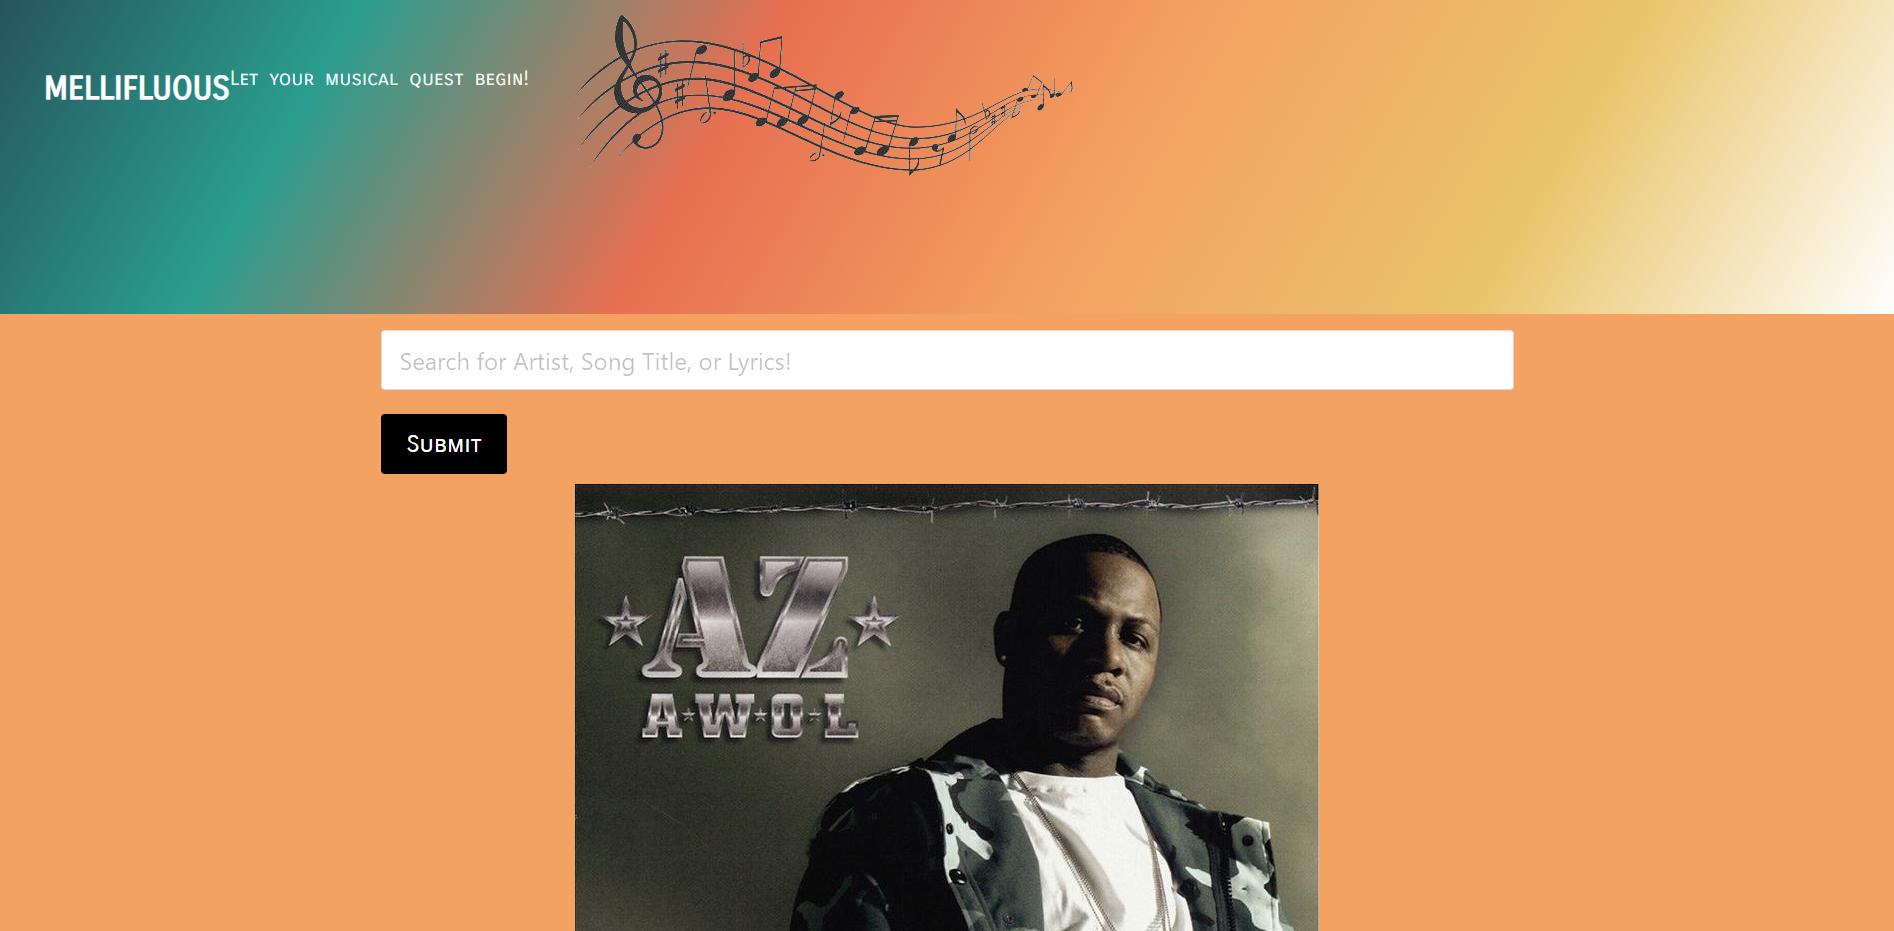
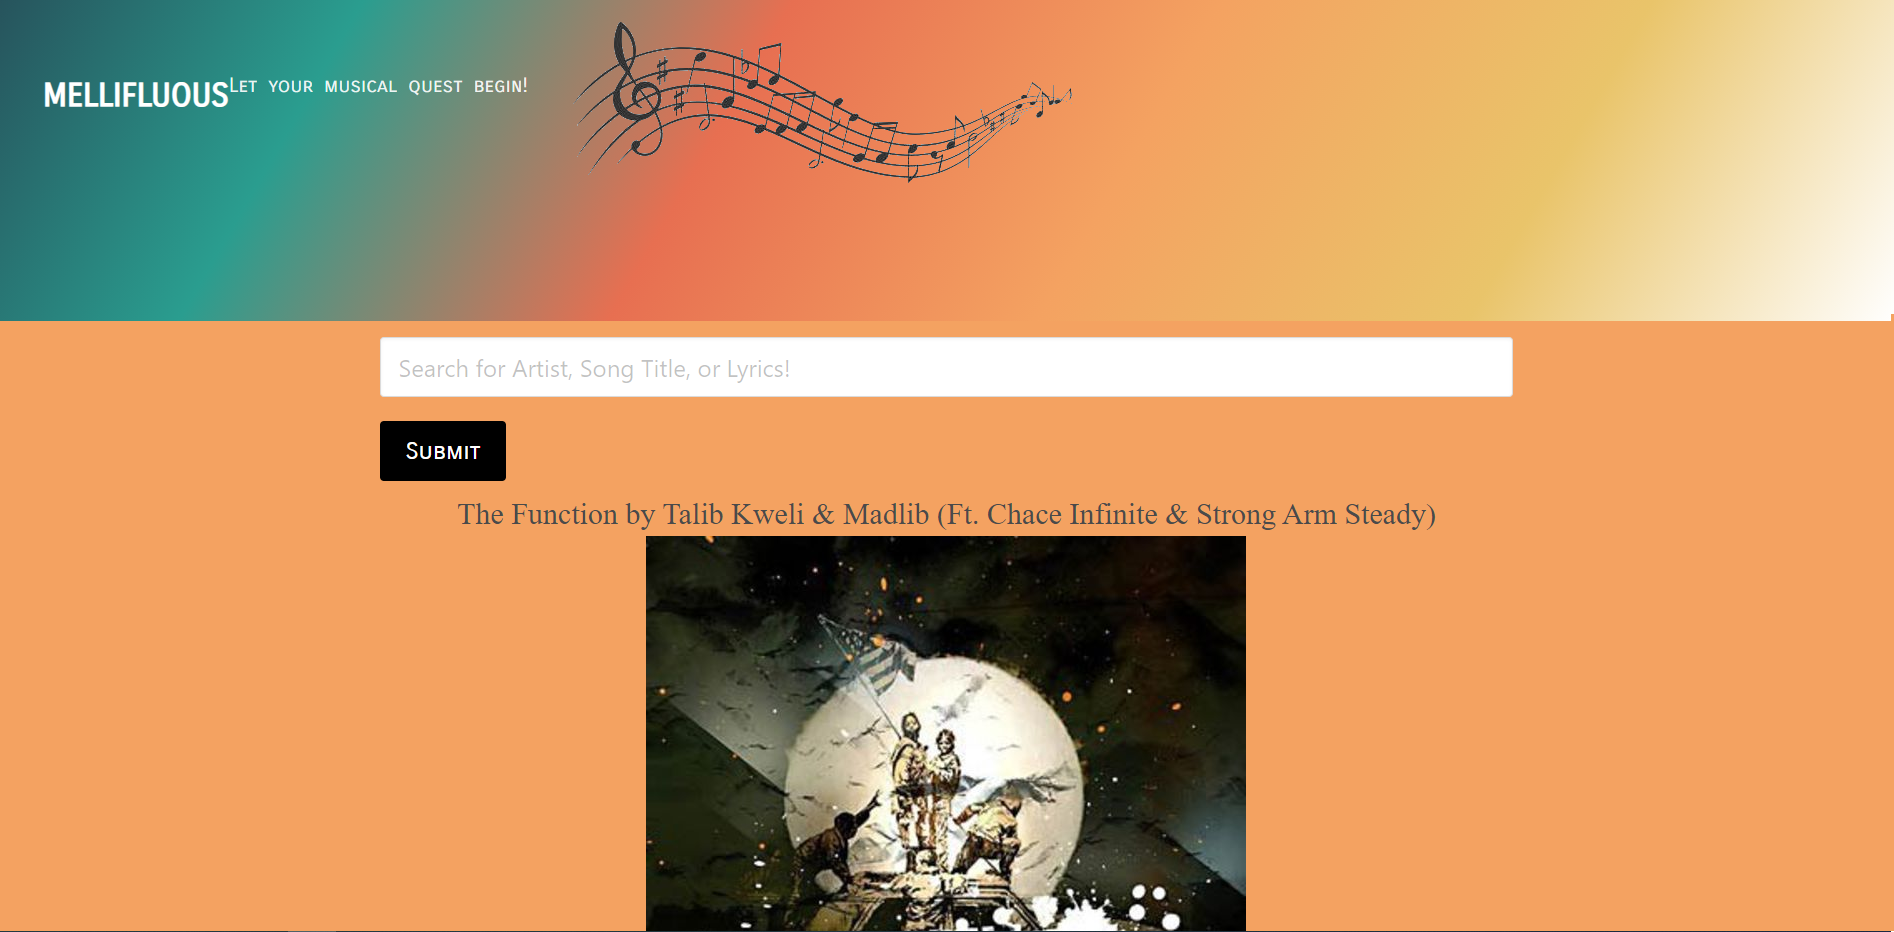
Added a song title element above random album artwork.

diff --git a/assets/js/script.js b/assets/js/script.js
@@ -44,11 +44,14 @@ function searchApi() {
           return response.json();
       })
       .then(function (data) {
-        console.log(data.response.song.url);
         imageEl = document.createElement('img');
         imageUrlEl = document.createElement('a');
+        songTitleEl = document.createElement('h1');
+        songTitleEl.setAttribute('style', 'font-size: 30px;')
+        songTitleEl.textContent = data.response.song.full_title
         imageEl.setAttribute('src', data.response.song.song_art_image_url);
         imageUrlEl.setAttribute('href', data.response.song.url);
+        artworkEl.append(songTitleEl)
         artworkEl.append(imageUrlEl);
         imageUrlEl.append(imageEl);
         
